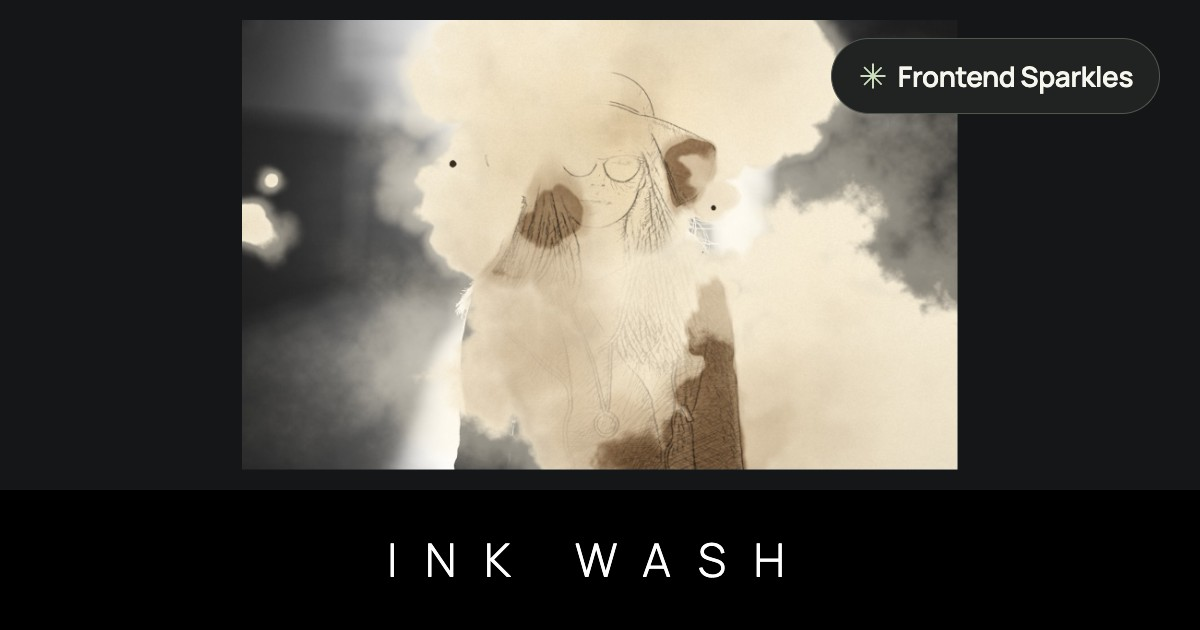
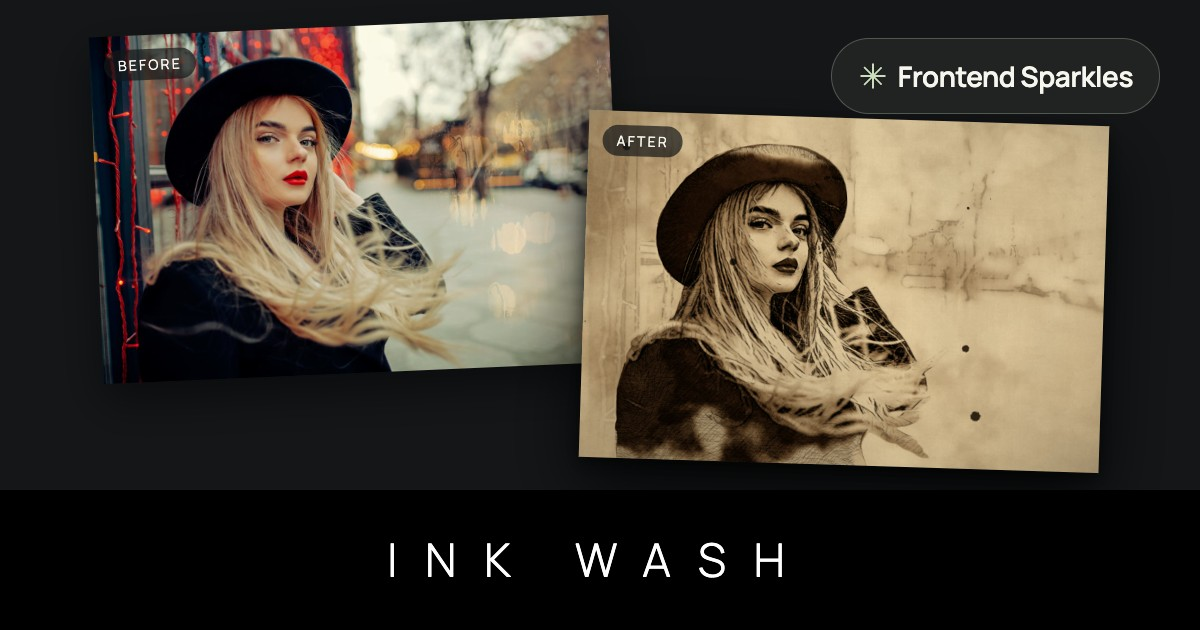
Show a before and after in the Ink Wash social preview

diff --git a/social/ink-wash.html b/social/ink-wash.html
@@ -6,11 +6,16 @@
 @font-face { font-family: Manrope; src: url('../particle-flip/public/fonts/manrope.ttf'); font-weight: 200 800; }
 * { box-sizing: border-box; }
 body { position: relative; width: 1200px; height: 630px; margin: 0; overflow: hidden; background: #141618; font-family: Manrope, sans-serif; }
-.scene { position: absolute; top: 20px; left: 90px; width: 1020px; height: 450px; object-fit: contain; }
+.scene { position: absolute; top: 20px; left: 90px; width: 1020px; height: 450px; }
+.print { position: absolute; width: 520px; box-shadow: 0 18px 44px rgb(0 0 0 / .5); }
+.print img { display: block; width: 100%; height: auto; }
+.print span { position: absolute; top: 14px; left: 14px; padding: 6px 14px; color: #f6f6ee; background: rgb(20 22 24 / .7); border-radius: 100px; font-size: 14px; letter-spacing: .16em; text-transform: uppercase; }
+.before { top: 6px; left: 6px; transform: rotate(-2.5deg); }
+.after { top: 98px; left: 494px; box-shadow: 0 6px 16px rgb(0 0 0 / .55), 0 30px 70px rgb(0 0 0 / .8); transform: rotate(1.8deg); }
 .badge { position: absolute; top: 38px; right: 40px; display: flex; align-items: center; gap: 10px; color: #f6f6ee; background: #202322; border: 1px solid #50574f; padding: 18px 26px; border-radius: 100px; font-size: 28px; font-weight: 600; letter-spacing: -.4px; }
 .badge svg { width: 30px; height: 30px; color: #cbdebc; }
 h1 { position: absolute; bottom: 0; left: 0; width: 100%; height: 140px; margin: 0; padding: 0 64px; display: flex; align-items: center; justify-content: center; color: #fff; background: #000; font-size: 46px; font-weight: 300; text-transform: uppercase; letter-spacing: 28px; line-height: 1.2; }
 
 </style>
-<body><img class="scene" src="../ink-wash/public/og-scene.jpg" alt="A photograph turning into a pencil sketch filled with spreading sepia ink"><div class="badge"><svg viewBox="0 0 24 24" fill="none" aria-hidden="true"><path d="M12 2v20M2 12h20M5 5l14 14M5 19L19 5" stroke="currentColor" stroke-width="1.5"/></svg>Frontend Sparkles</div><h1>Ink Wash</h1></body>
+<body><div class="scene"><div class="print before"><img src="../ink-wash/public/example/before.jpg" alt="A woman in a black hat on a city street, her hair blown by the wind"><span>Before</span></div><div class="print after"><img src="../ink-wash/public/example/after.jpg" alt="The same photo as a sepia ink painting over a pencil sketch"><span>After</span></div></div><div class="badge"><svg viewBox="0 0 24 24" fill="none" aria-hidden="true"><path d="M12 2v20M2 12h20M5 5l14 14M5 19L19 5" stroke="currentColor" stroke-width="1.5"/></svg>Frontend Sparkles</div><h1>Ink Wash</h1></body>
 </html>

diff --git a/ink-wash/index.html b/ink-wash/index.html
@@ -19,13 +19,13 @@
     <meta property="og:image:type" content="image/jpeg">
     <meta property="og:image:width" content="1200">
     <meta property="og:image:height" content="630">
-    <meta property="og:image:alt" content="A centered screenshot of a photograph turning into a pencil sketch and sepia ink painting on aged paper, with a thin uppercase Ink Wash title on a black bottom strip and a Frontend Sparkles badge.">
+    <meta property="og:image:alt" content="Two overlapping prints labeled Before and After: a color photo of a woman in a black hat, and the same photo as a sepia ink painting over a pencil sketch, above a thin uppercase Ink Wash title on a black bottom strip and a Frontend Sparkles badge.">
     <meta name="twitter:card" content="summary_large_image">
     <meta name="twitter:creator" content="@rosickeyy">
     <meta name="twitter:title" content="Ink Wash — Frontend Sparkles">
     <meta name="twitter:description" content="Drop in a photo and watch it dissolve into a pencil sketch on aged paper, then fill with spreading sepia ink. Built with Vue, WebGL shaders, and Transformers.js.">
     <meta name="twitter:image" content="https://rossinek.github.io/frontend-sparkles/ink-wash/og.jpg">
-    <meta name="twitter:image:alt" content="A centered screenshot of a photograph turning into a pencil sketch and sepia ink painting on aged paper, with a thin uppercase Ink Wash title on a black bottom strip and a Frontend Sparkles badge.">
+    <meta name="twitter:image:alt" content="Two overlapping prints labeled Before and After: a color photo of a woman in a black hat, and the same photo as a sepia ink painting over a pencil sketch, above a thin uppercase Ink Wash title on a black bottom strip and a Frontend Sparkles badge.">
   </head>
   <body>
     <div id="app"></div>
